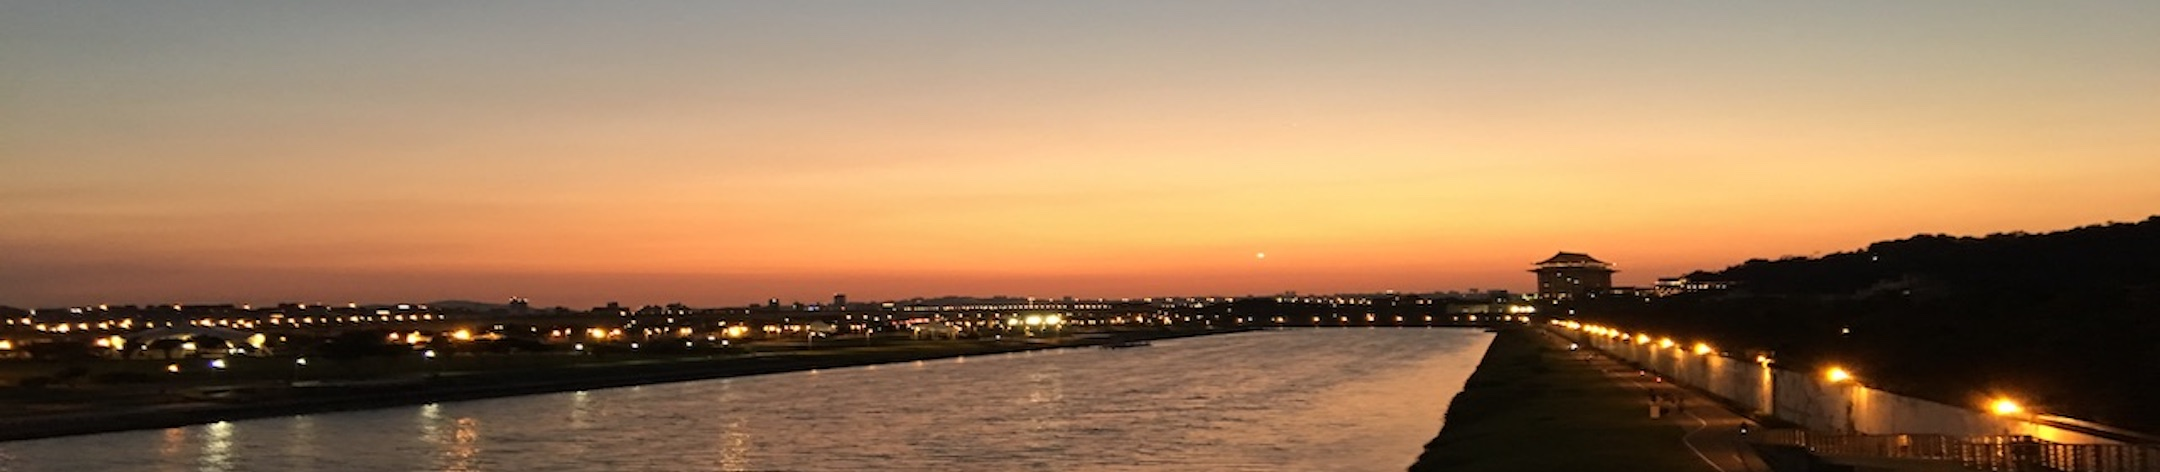
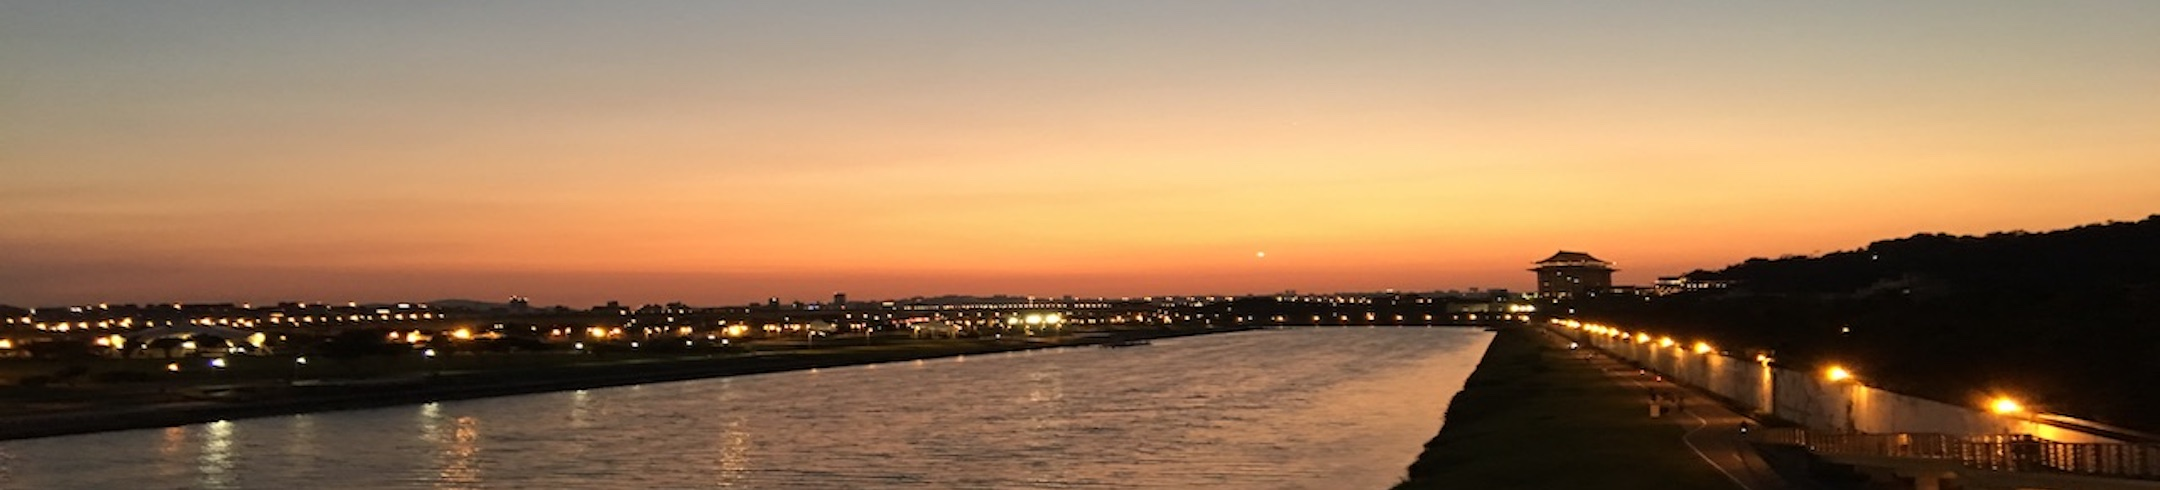
Add file via upload

Changed region(s): [[0.0, 0.4153, 1.0, 1.0]]

diff --git a/index.html b/index.html
@@ -16,7 +16,7 @@
 		<!-- Header -->
 			<section id="header">
 				<header>
-					<span class="image avatar"><img src="images/avatar_me.jpg" alt="" /></span>
+					<span class="image avatar"><img src="images/avatar_portrait.jpg" alt="" /></span>
 					<h1 id="logo"><a href="#">Matteo Soo</a></h1>
 					<p>graduated sutdent in<br />
 				National Tsing-Hua University</p>
@@ -31,11 +31,13 @@
 				</nav>
 				<footer>
 					<ul class="icons">
-						<li><a href="#" class="icon brands fa-twitter"><span class="label">Twitter</span></a></li>
-						<li><a href="#" class="icon brands fa-facebook-f"><span class="label">Facebook</span></a></li>
-						<li><a href="#" class="icon brands fa-instagram"><span class="label">Instagram</span></a></li>
-						<li><a href="#" class="icon brands fa-github"><span class="label">Github</span></a></li>
-						<li><a href="#" class="icon solid fa-envelope"><span class="label">Email</span></a></li>
+						<li><a href="https://twitter.com/matteosoo11" class="icon brands fa-twitter"><span class="label">Twitter</span></a></li>
+						<li><a href="https://www.facebook.com/matteosoo11" class="icon brands fa-facebook-f"><span class="label">Facebook</span></a></li>
+						<li><a href="https://www.instagram.com/matteosoo/" class="icon brands fa-instagram"><span class="label">Instagram</span></a></li>
+                        <li><a href="https://www.linkedin.com/in/matteosoo/" class="icon brands fa-linkedin"><span class="label">LinkedIn</span></a></li>
+                        <li><a href="https://medium.com/@matteosoo" class="icon brands fa-medium"><span class="label">Github</span></a></li>
+						<li><a href="https://github.com/matteosoo" class="icon brands fa-github"><span class="label">Github</span></a></li>
+						<li><a href="matteosoo11@gmail.com" class="icon solid fa-envelope"><span class="label">Email</span></a></li>
 					</ul>
 				</footer>
 			</section>
@@ -49,7 +51,7 @@
 						<!-- One -->
 							<section id="one">
 								<div class="image main" data-position="center">
-									<img src="images/banner_tpe2.jpg" alt="" />
+									<img src="images/banner_tpe.jpg" alt="" />
 								</div>
 								<div class="container">
 									<header class="major">
